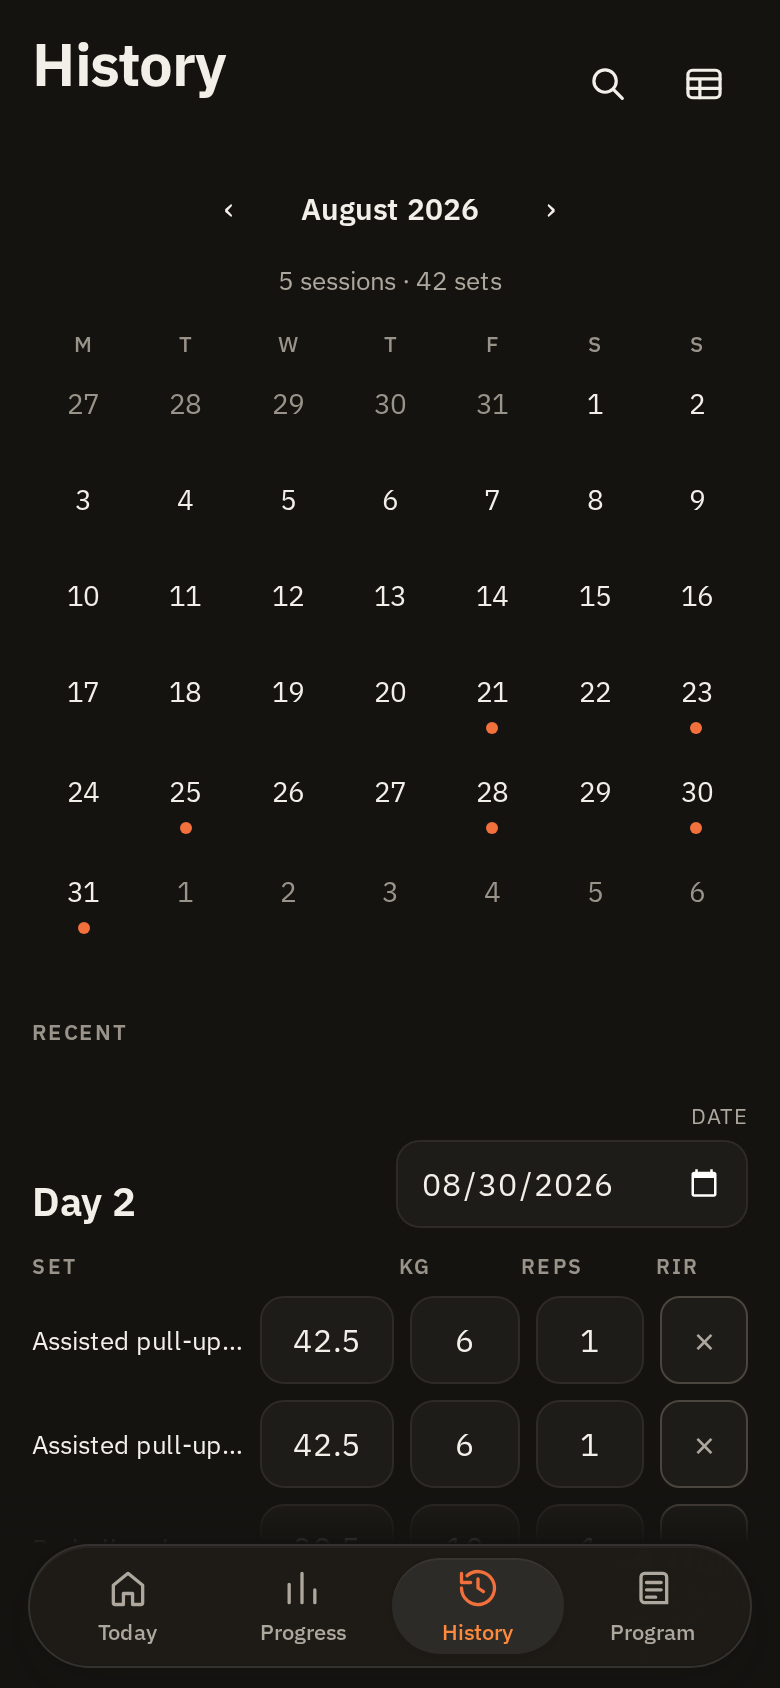
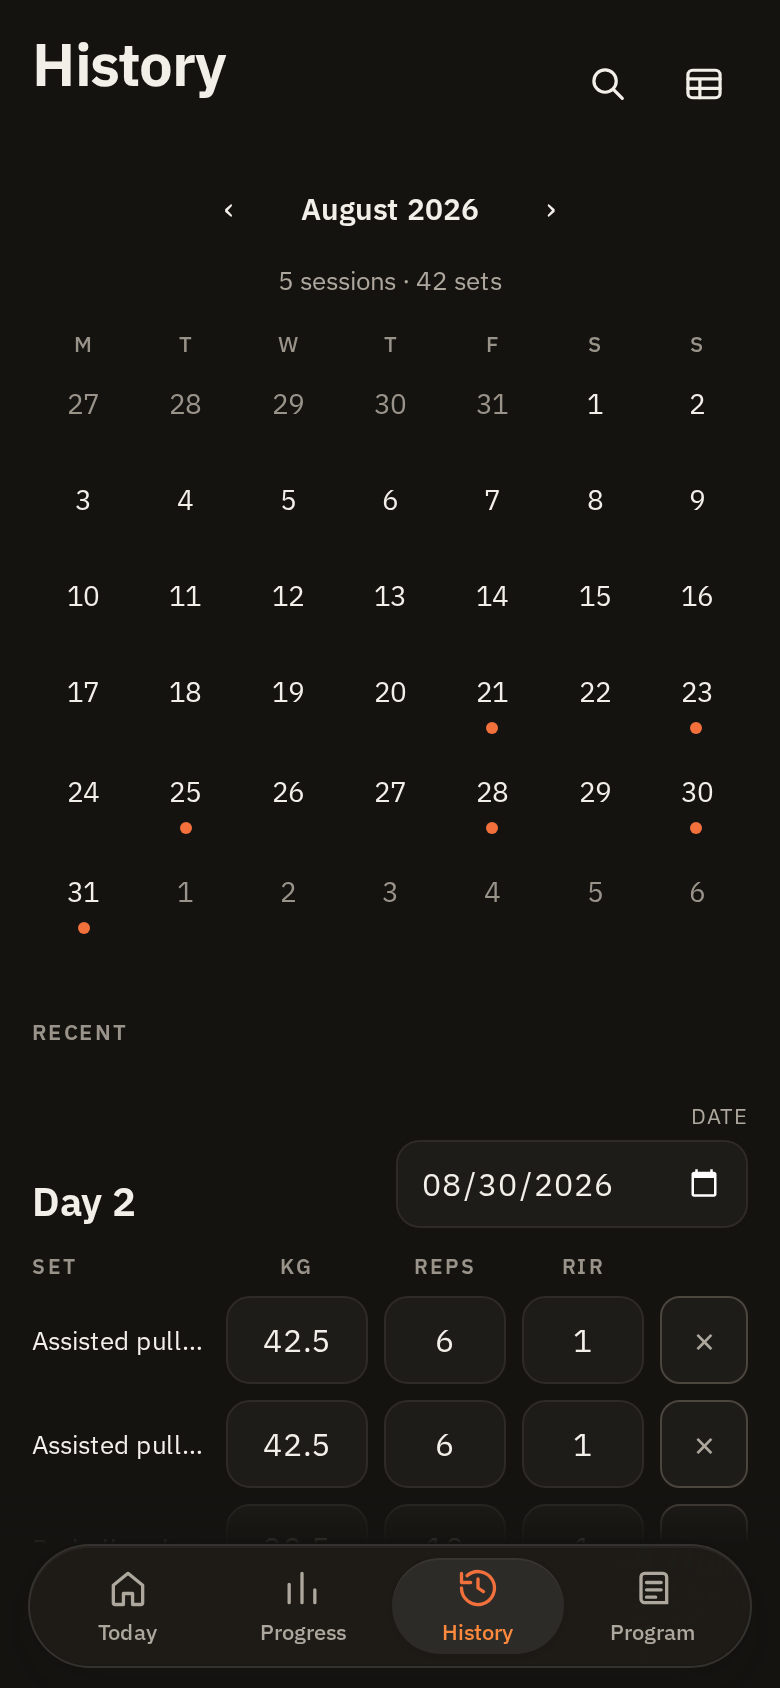
fix(ui): close full-catalog copy and overflow gaps

diff --git a/styles.css b/styles.css
@@ -1813,10 +1813,10 @@ td{font-size:13px;color:var(--ink);font-variant-numeric:tabular-nums}
 .pmeta__row{display:flex;flex-wrap:wrap;align-items:flex-end;gap:12px}
 .pmeta__name{flex:1;min-width:min(12rem,100%);margin-top:0;font-size:.6875rem;letter-spacing:.08em;text-transform:uppercase;color:var(--ink-faint);font-weight:600}
 .pmeta__name input{margin-top:5px;font-weight:600;font-size:1rem;text-transform:none;letter-spacing:normal;padding:10px 11px;background:var(--surface)}
-.pmeta__started{flex:none;margin-top:0;font-size:.6875rem;letter-spacing:.08em;text-transform:uppercase;color:var(--ink-faint);font-weight:600}
+.pmeta__started{flex:1 1 min(100%,10rem);min-width:0;max-width:100%;margin-top:0;font-size:.6875rem;letter-spacing:.08em;text-transform:uppercase;color:var(--ink-faint);font-weight:600}
 /* 16px, like every other field: below that iOS zooms the page in on focus and
    leaves it there. */
-.pmeta__started input{margin-top:5px;font-size:1rem;padding:9px 11px;background:var(--surface);color-scheme:var(--scheme)}
+.pmeta__started input{box-sizing:border-box;width:100%;min-width:0;max-width:100%;margin-top:5px;font-size:1rem;padding:9px 11px;background:var(--surface);color-scheme:var(--scheme)}
 .pmeta__chips{display:flex;flex-wrap:wrap;gap:7px;align-items:center;margin-left:auto}
 .pmeta__chip{font-size:.75rem;color:var(--ink-soft);background:var(--surface);border:1px solid var(--rule);border-radius:999px;padding:6px 10px;white-space:nowrap}
 .pmeta__chip--status{color:var(--ink);border-color:var(--rule-strong);font-weight:600}
@@ -2605,12 +2605,12 @@ body.is-sheet-open .installbanner{display:none}
 .edhead{display:flex;align-items:flex-end;justify-content:space-between;gap:12px;margin-bottom:12px}
 .edate{display:flex;flex-direction:column;align-items:flex-end;color:var(--ink-soft);font-size:11px;gap:0;text-transform:uppercase;letter-spacing:.08em}
 .edate input{width:auto;margin-top:5px;padding:9px 11px;font-size:16px}
-.edrow{display:grid;grid-template-columns:1fr 4.2rem 3.4rem 3.4rem auto;gap:8px;align-items:center;margin-top:8px}
+.edrow{display:grid;grid-template-columns:minmax(0,1fr) minmax(0,20%) minmax(0,17%) minmax(0,17%) 44px;gap:8px;align-items:center;margin-top:8px}
 .edrow--head span{text-transform:uppercase;letter-spacing:.08em;font-size:10.5px;color:var(--ink-faint);text-align:center;font-weight:600}
 .edrow--head span:first-child{text-align:left}
 .edrow__name{font-size:13px;color:var(--ink);overflow:hidden;text-overflow:ellipsis;white-space:nowrap}
 .edrow__name small{color:var(--ink-faint)}
-.edrow__in{margin-top:0;text-align:center;font-size:16px;padding:9px 4px;background:var(--surface)}
+.edrow__in{width:100%;min-width:0;margin-top:0;text-align:center;font-size:16px;padding:9px 4px;background:var(--surface)}
 .edrow__rm{
   justify-self:end;display:inline-flex;align-items:center;justify-content:center;
   width:44px;height:44px;flex:none;padding:0;cursor:pointer;
@@ -2767,7 +2767,7 @@ input[aria-invalid="true"],[aria-invalid="true"]{outline:2px solid var(--accent-
   .setrow input{font-size:16px;padding:12px 2px}
   .stepbtn{width:44px;min-width:44px;font-size:17px}
   .saveset,.sets__head .sets__head-save{min-width:44px;padding:0 4px}
-  .edrow{grid-template-columns:1fr 3.4rem 3rem 3rem auto;gap:6px}
+  .edrow{grid-template-columns:minmax(0,1fr) minmax(0,20%) minmax(0,17%) minmax(0,17%) 44px;gap:6px}
   .curset__val{font-size:26px}
 }
 
@@ -3361,7 +3361,7 @@ input[aria-invalid="true"],[aria-invalid="true"]{outline:2px solid var(--accent-
 .entry-body .onb__opts--reasons .radio-card__body{flex:0 0 auto}
 .entry-body .onb__opts--reasons .radio-card__title{font-size:.8125rem}
 
-.entry-body .onb__q{margin:0 0 6px;text-wrap:balance}
+.entry-body .onb__q{margin:0 0 6px;text-wrap:balance;overflow-wrap:anywhere}
 .entry-body .onb__explain{margin:0 0 20px;font-size:.9375rem;line-height:1.45;color:var(--ink-soft)}
 .entry-body .onb__explain:last-child{margin-bottom:0}
 .entry-body .entry__hint{margin:0 0 18px}

diff --git a/i18n.js b/i18n.js
@@ -1429,6 +1429,7 @@ const EN = {
   "entry.conflict.title": "Your active program changed",
   "entry.conflict.body": "Another change updated the active program while this setup was open. Review again before replacing it.",
   "entry.conflict.review": "Review again",
+  "entry.activation_conflict.title": "Your active program changed",
   "entry.hub.title": "Create a program",
   "entry.hub.lede": "Choose how to start your first program.",
   "entry.hub.group.written": "Taurifer builds the program",
@@ -1655,6 +1656,9 @@ const EN = {
   "entry.editor.save": "Save draft",
   "entry.editor.close": "Close",
   "entry.editor.saved": "Draft saved.",
+  "entry.editor.title": "Build a program",
+  "entry.editor.draft_saved": "Draft saved",
+  "reorder": "Reorder exercises",
   "entry.legacy.hint": "This draft comes from an earlier setup. Review it before continuing.",
   "entry.optional": "Optional",
   "entry.error.summary": "Complete the required answers to continue.",
@@ -3128,6 +3132,7 @@ const PT = {
   "entry.conflict.title": "Seu programa ativo mudou",
   "entry.conflict.body": "Outra alteração atualizou o programa ativo enquanto esta configuração estava aberta. Revise de novo antes de substituí-lo.",
   "entry.conflict.review": "Revisar de novo",
+  "entry.activation_conflict.title": "Seu programa ativo mudou",
   "entry.hub.title": "Criar um programa",
   "entry.hub.lede": "Escolha como começar seu primeiro programa.",
   "entry.hub.group.written": "O Taurifer monta o programa",
@@ -3354,6 +3359,9 @@ const PT = {
   "entry.editor.save": "Salvar rascunho",
   "entry.editor.close": "Fechar",
   "entry.editor.saved": "Rascunho salvo.",
+  "entry.editor.title": "Montar um programa",
+  "entry.editor.draft_saved": "Rascunho salvo",
+  "reorder": "Reordenar exercícios",
   "entry.legacy.hint": "Este rascunho vem de uma configuração anterior. Revise-o antes de continuar.",
   "entry.optional": "Opcional",
   "entry.error.summary": "Complete as respostas obrigatórias para continuar.",

diff --git a/sw.js b/sw.js
@@ -1,9 +1,9 @@
-const CACHE = "repforge-v184";
+const CACHE = "repforge-v185";
 const ASSETS = [
   "./", "./index.html", "./styles.css", "./manifest.webmanifest",
   "./telemetry.js", "./posthog-init.js", "./schedule.js", "./notify.js", "./i18n.js", "./exercises.js",
-  "./progression-engine.js", "./program-compiler.js", "./program-compiler.js?v=184", "./program-entry.js", "./program-entry.js?v=184", "./program-entry-adapter.js", "./program-entry-adapter.js?v=184", "./program-editor.js", "./program-editor.js?v=168",
-  "./shared-setup.js", "./shared-setup.js?v=184", "./app.js", "./app.js?v=184",
+  "./progression-engine.js", "./program-compiler.js", "./program-compiler.js?v=185", "./program-entry.js", "./program-entry.js?v=185", "./program-entry-adapter.js", "./program-entry-adapter.js?v=185", "./program-editor.js", "./program-editor.js?v=168",
+  "./shared-setup.js", "./shared-setup.js?v=185", "./app.js", "./app.js?v=185",
   "./icons/icon.svg", "./icons/favicon-32.png", "./icons/icon-192.png",
   "./icons/icon-512.png", "./icons/icon-1024.png",
   "./icons/icon-maskable-512.png", "./icons/apple-touch-icon.png",

diff --git a/index.html b/index.html
@@ -935,11 +935,11 @@
   <script src="i18n.js"></script>
   <script src="exercises.js"></script>
   <script src="progression-engine.js"></script>
-  <script src="program-compiler.js?v=184"></script>
-  <script src="program-entry.js?v=184"></script>
-  <script src="program-entry-adapter.js?v=184"></script>
+  <script src="program-compiler.js?v=185"></script>
+  <script src="program-entry.js?v=185"></script>
+  <script src="program-entry-adapter.js?v=185"></script>
   <script src="program-editor.js?v=168"></script>
-  <script src="shared-setup.js?v=184"></script>
-  <script src="app.js?v=184"></script>
+  <script src="shared-setup.js?v=185"></script>
+  <script src="app.js?v=185"></script>
 </body>
 </html>
